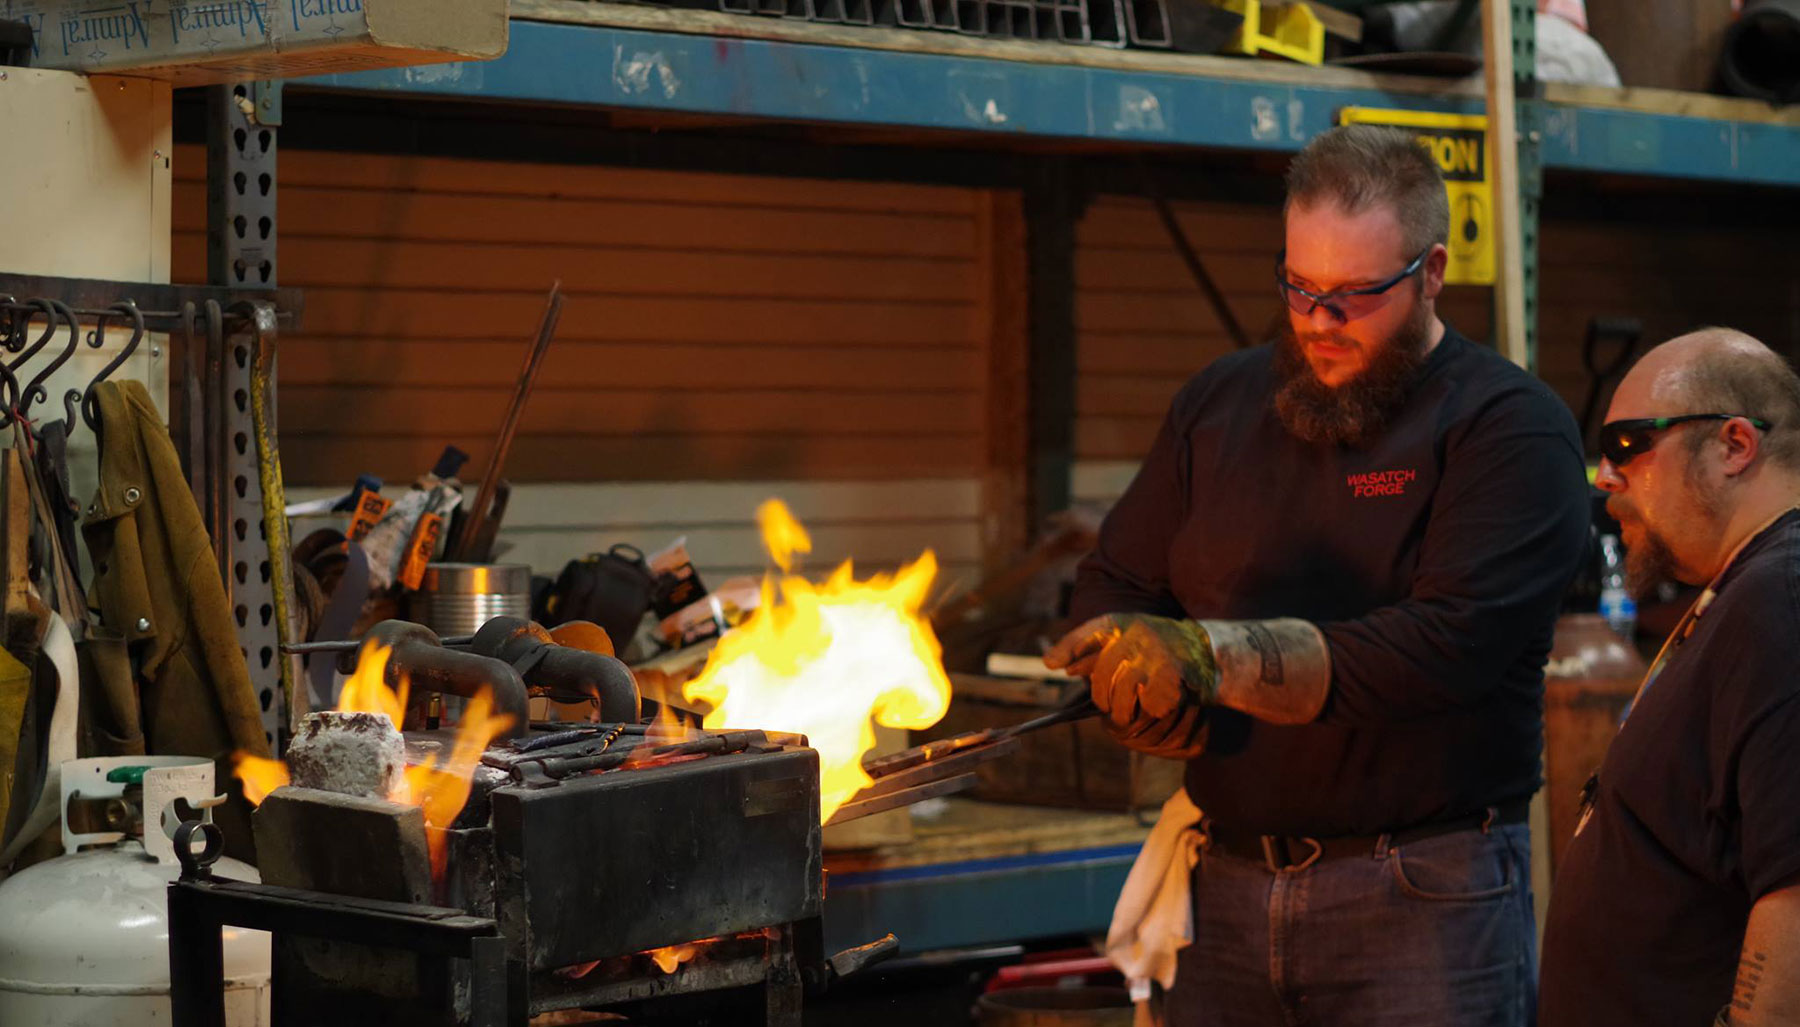
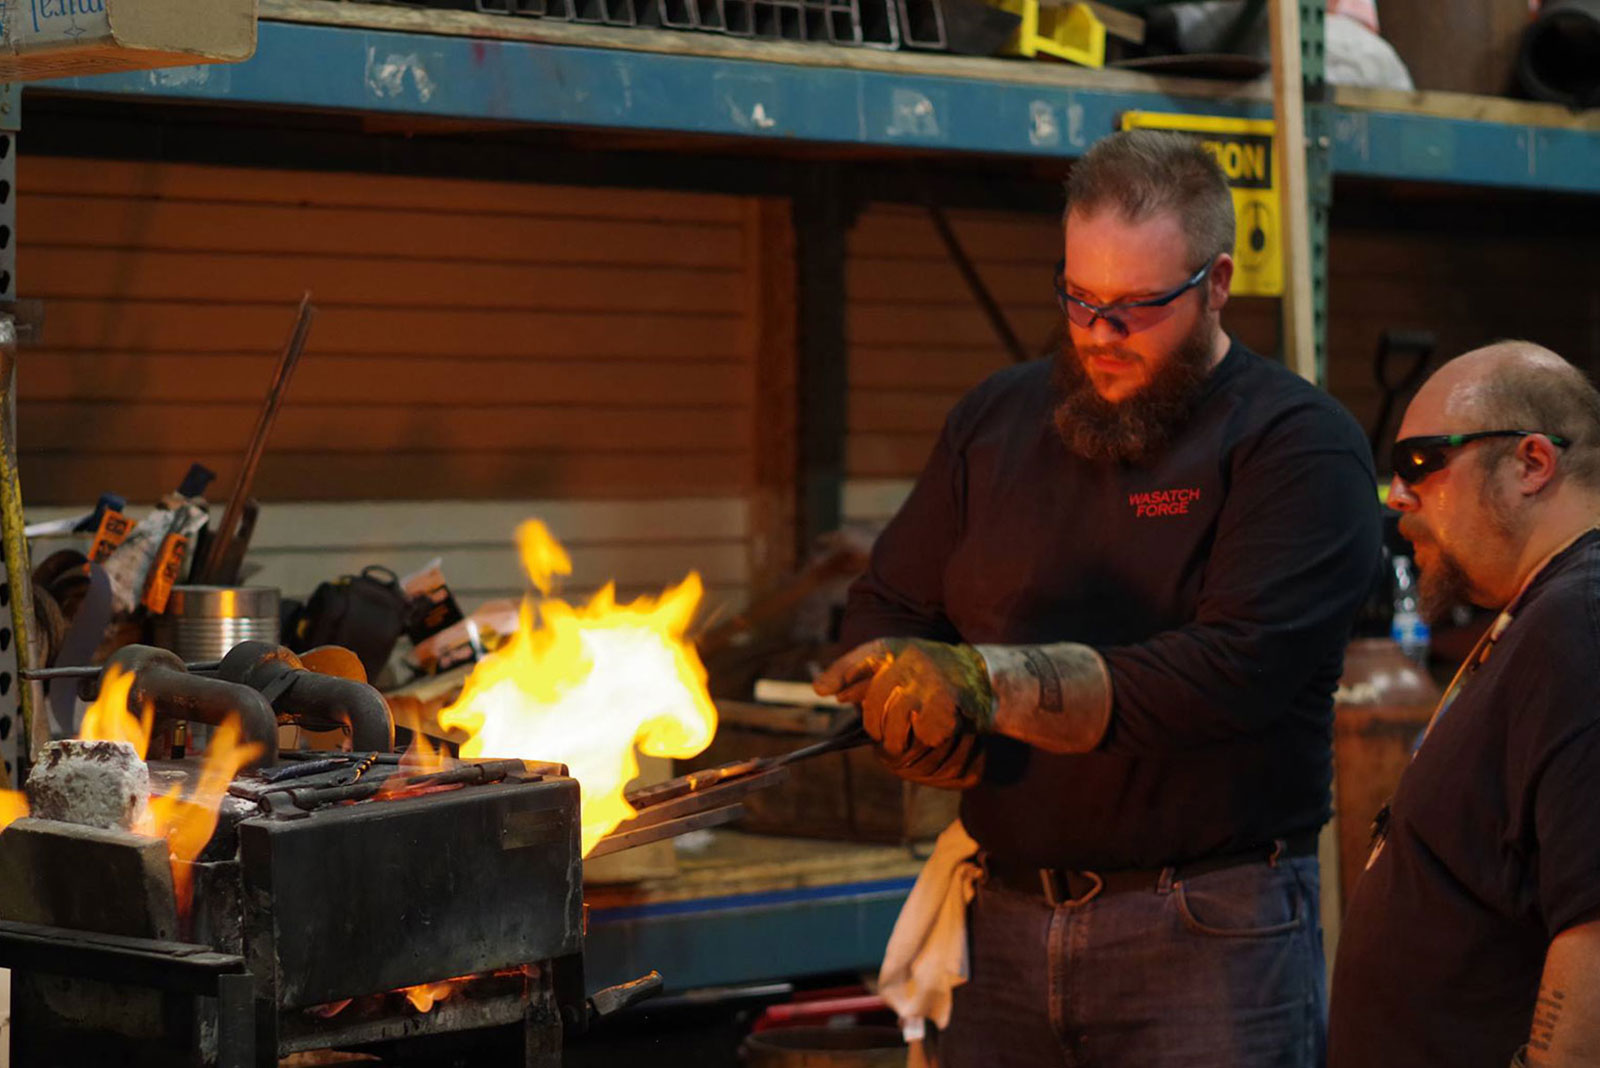
Hero & BackgroundImage overhaul

diff --git a/components/BackgroundImage.vue b/components/BackgroundImage.vue
@@ -30,60 +30,32 @@
     @import "../assets/scss/_the-goods";
 
     .background-image {
-        overflow : hidden;
 
         &-img {
-            position   : absolute;
-            top        : 50%;
-            left       : 50%;
-            width      : 100%;
-            min-height : 100%;
-            transform  : translate(-50%, -50%);
-            object-fit : cover;
+          opacity  : 0;
+          position : relative;
+          top      : -250%;
+          width    : 100%;
+
+          @include screen-md {
+            top: -125%;
+          }
+
+          @include screen-lg {
+            top: -75%;
+          }
+
+          @include screen-xl {
+            top: -15%;
+          }
+
+          body.init & {
+            animation : bgImgEnter 0.4s $cubic-out 0.81s forwards;
+          }
         }
 
         &-tint {
-            background : linear-gradient(rgba(0, 0, 0, 0) 0%, rgba(0, 0, 0, 0.5) 60%, rgba(0, 0, 0, 0.7) 100%);
-        }
-
-        &--align-top {
-
-            .background-image-img {
-                bottom          : auto;
-                object-position : top;
-                top             : 0;
-                transform       : translate(-50%, 0);
-            }
-        }
-
-        &--align-bottom {
-
-            .background-image-img {
-                bottom          : 0;
-                object-position : bottom;
-                top             : auto;
-                transform       : translate(-50%, 0);
-            }
-        }
-
-        &--align-left {
-
-            .background-image-img {
-                left            : 0;
-                object-position : left;
-                right           : auto;
-                transform       : translate(0, -50%);
-            }
-        }
-
-        &--align-right {
-
-            .background-image-img {
-                left            : auto;
-                object-position : right;
-                right           : 0;
-                transform       : translate(0, -50%);
-            }
+            background : linear-gradient(rgba(0, 0, 0, 0) 0%, rgba(0, 0, 0, 0.45) 60%, rgba(0, 0, 0, 0.65) 100%);
         }
     }
 </style>

diff --git a/components/Hero.vue b/components/Hero.vue
@@ -28,10 +28,14 @@
         justify-content : center;
         overflow        : hidden;
         position        : relative;
-        height          : 35vh;
+        height          : 25rem;
+
+        @include screen-xs-sm {
+            margin-top : $header-height-mobile;
+        }
 
         @include screen-md-lg-xl {
-            height : 65vh;
+            height : 36vw;
         }
 
         .home & {
@@ -61,8 +65,8 @@
             .hero-align-left & {
                 margin : auto auto 3rem auto;
 
-                @include screen-md-lg-xl {
-                    margin : auto auto 6rem auto;
+                @include screen-lg-xl {
+                    margin : auto auto 7rem auto;
                 }
             }
 
@@ -77,9 +81,11 @@
             font-size      : 4.2rem;
             font-weight    : 500;
             line-height    : 3.4rem;
+            left           : -0.5rem;
             margin         : auto;
             max-width      : 600px;
             opacity        : 0;
+            position       : relative;
             text-align     : center;
             text-transform : uppercase;
             transform      : translateY(-2rem);

diff --git a/pages/history.vue b/pages/history.vue
@@ -1,7 +1,7 @@
 <template>
     <div class="page-our-history">
         <Hero heading="Our History" align="left">
-            <BackgroundImage :img-src="heroImgSrc" :tint="false"/>
+            <BackgroundImage :img-src="heroImgSrc" :tint="true"/>
         </Hero>
         <div class="container">
             <div class="page-content">
@@ -76,6 +76,21 @@
         @include screen-xs-sm {
             padding : 0;
         }
+    }
+
+    .background-image-img {
+
+      @include screen-md {
+        top: -215%;
+      }
+
+      @include screen-lg {
+        top: -135%;
+      }
+
+      @include screen-xl {
+        top: -75%;
+      }
     }
 }
 

diff --git a/assets/scss/_transitions.scss b/assets/scss/_transitions.scss
@@ -9,11 +9,11 @@
 }
 
 .page-enter-active, .layout-enter-active {
-    transition: opacity .8s $cubic-out, transform .8s $cubic-out;
+    transition: opacity .8s $cubic-out;
 }
 
 .page-leave-active, .layout-leave-active {
-    transition: opacity .3s $cubic-out, transform .3s $cubic-out;
+    transition: opacity .3s $cubic-out;
 }
 .page-enter, .page-leave-active,
 .layout-enter, .layout-leave-active {

diff --git a/layouts/default.vue b/layouts/default.vue
@@ -28,11 +28,11 @@
 
     .page-container {
         background : $color-off-white;
-        min-height : 100vh;
-
-        @include screen-xs-sm {
-            margin-top : $header-height-mobile;
-        }
+        height : 100vh;
+        overflow-x: hidden;
+        overflow-y: auto;
+        position: relative;
+        perspective: 1px;
     }
 
     .page-content {

diff --git a/pages/shop.vue b/pages/shop.vue
@@ -1,7 +1,7 @@
 <template>
     <div class="page-book-lessons">
         <Hero heading="The Shop" align="left">
-            <BackgroundImage :img-src="heroImgSrc" :tint="false"/>
+            <BackgroundImage :img-src="heroImgSrc" :tint="true"/>
         </Hero>
         <div class="container">
             <div class="page-content">

diff --git a/components/Header.vue b/components/Header.vue
@@ -71,8 +71,11 @@
             align-items     : center;
             height          : 100%;
             justify-content : space-between;
-            padding         : 0 3rem;
             position        : relative;
+
+            @include screen-xs-sm {
+              padding : 0 3rem;
+            }
         }
     }
 

diff --git a/assets/scss/_animations.scss b/assets/scss/_animations.scss
@@ -19,3 +19,14 @@
         transform: translateY(0);
     }
 }
+
+@keyframes bgImgEnter {
+    0%   {
+        opacity: 0;
+        transform: translateZ(-2px) scale(3.5);
+    }
+    100% {
+        opacity: 1;
+        transform: translateZ(-2px) scale(3);
+    }
+}

diff --git a/components/nav/Nav.vue b/components/nav/Nav.vue
@@ -57,6 +57,10 @@
         margin         : 0 1.5rem 0 2.5rem;
         text-transform : uppercase;
 
+        &:first-of-type {
+          margin-left : 0;
+        }
+
         &--subnav {
             margin-right : 2.5rem;
         }

diff --git a/assets/scss/bootstrap/_variables.scss b/assets/scss/bootstrap/_variables.scss
@@ -167,7 +167,7 @@ $grid-breakpoints: (
   xs: 0,
   sm: 576px,
   md: 768px,
-  lg: 992px,
+  lg: 1024px,
   xl: 1200px
 ) !default;
 @include _assert-ascending($grid-breakpoints, "$grid-breakpoints");
